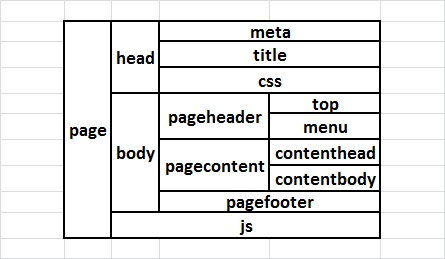
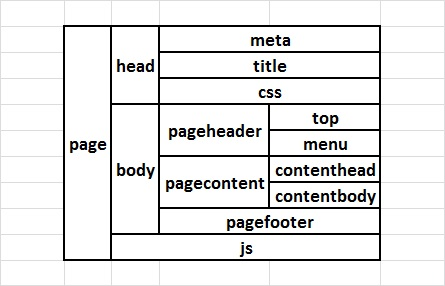
added page content header

diff --git a/preview.js b/preview.js
@@ -17,8 +17,23 @@ var viewList = {
         gwcsshbs: {
             autoPageRefresh: true
         },
+        title: 'Home',
         menu: menuData,
-        title: 'Home'
+        content: {
+            top: {
+                title: 'Responsive Design Made Easy',
+                description: 'GroundworkCSS on Handlebars; Created and Maintained by <a href="http://twitter.com/partharamanujam" target="_blank">Partha Ramanujam</a>',
+                summary: 'Get Started',
+                buttons: [
+                    {
+                        href: '/layout-a',
+                        rel: 'next',
+                        class: 'green button',
+                        text: 'View Example Layouts'
+                    }
+                ]
+            }
+        }
     }
 };
 
